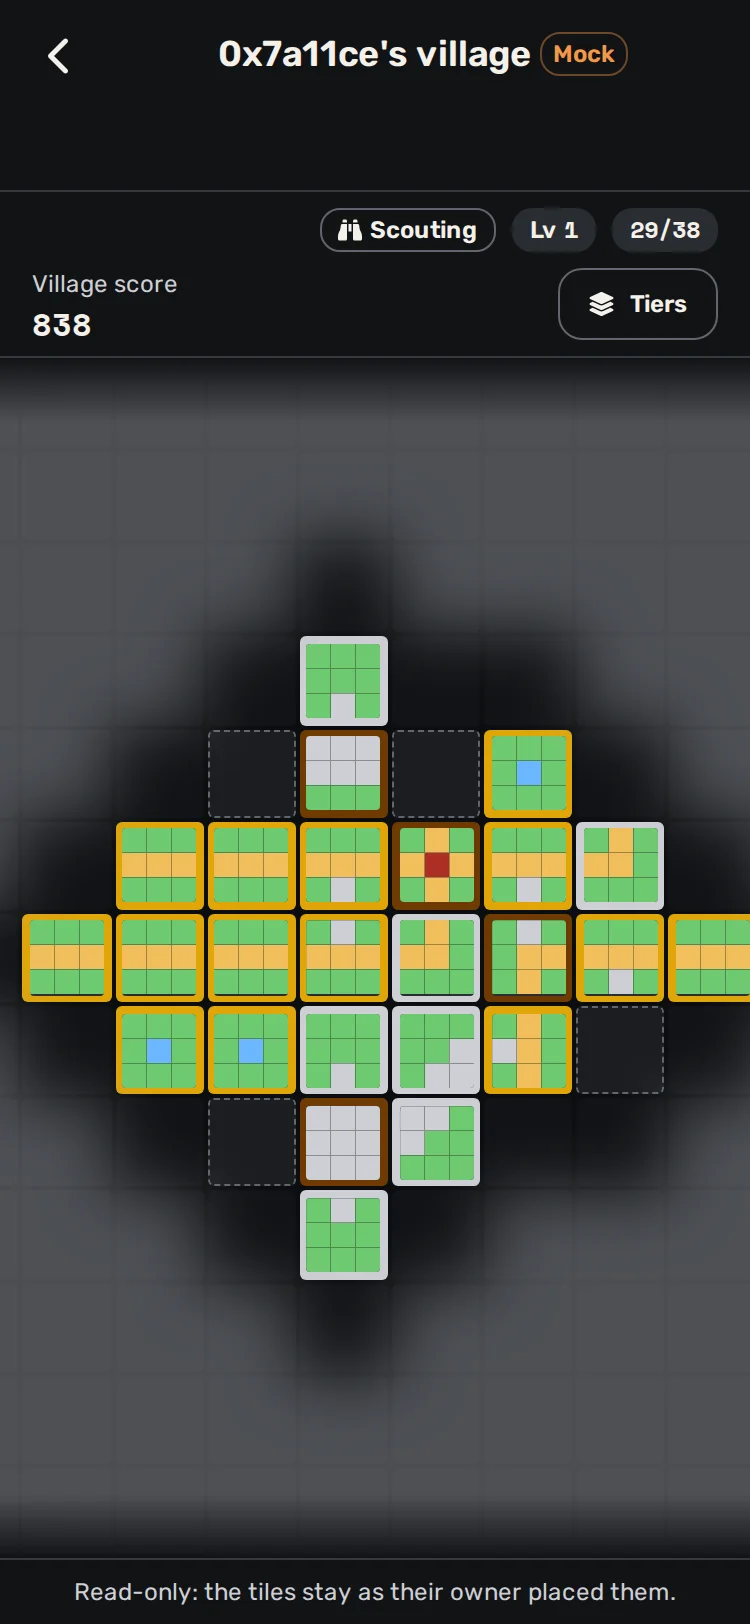
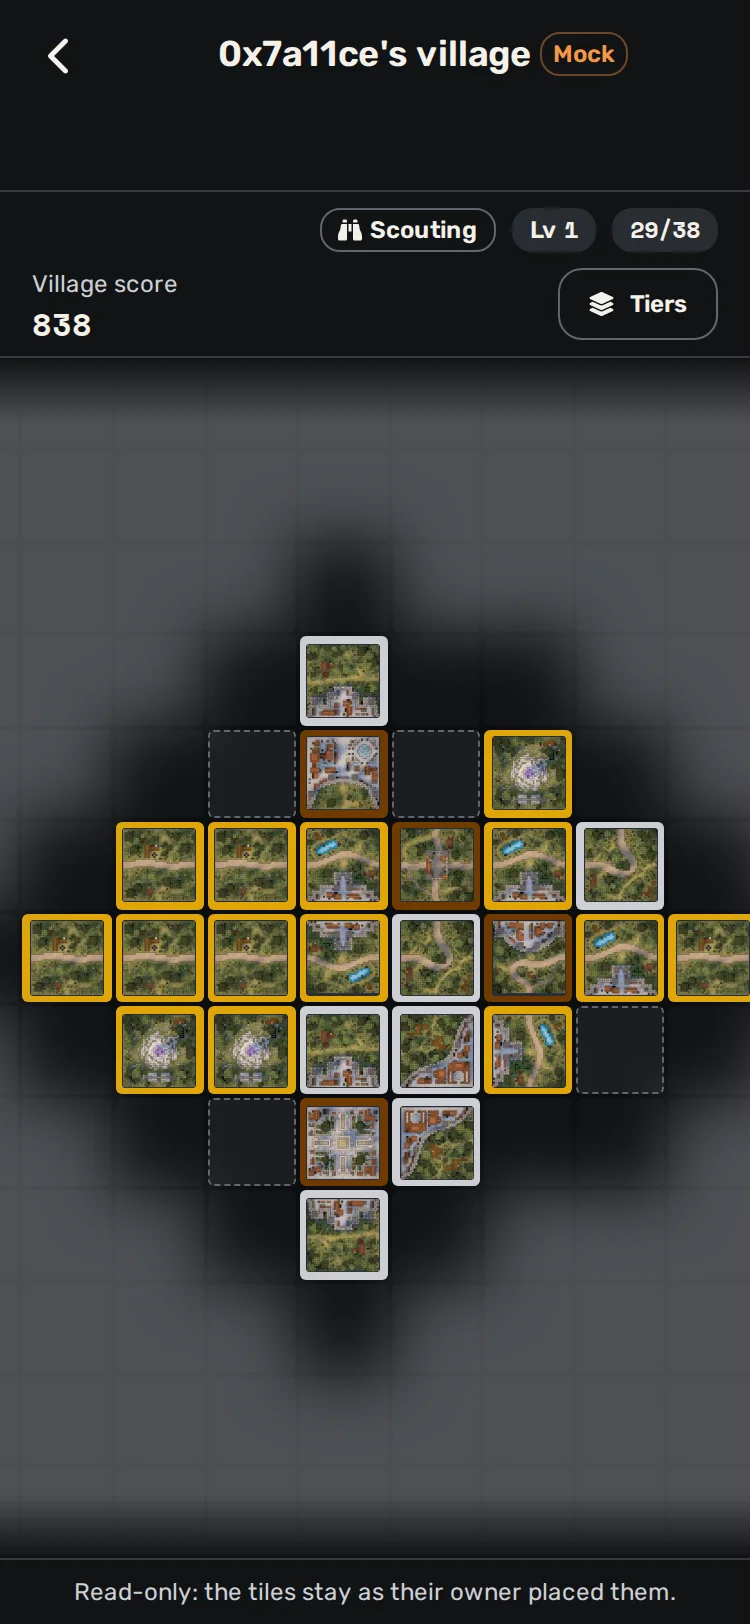
VILLAGE-SCREEN-2: the village's tiles in their owner's active skins (#646)
Review fix: the plan board draws each tile with its top-down render in the
theme its owner made active (useBoardSkins, as the boards; another player's
only when this device shows other players' skins), on its tier's base, as
the deck sheet's real view does (deckArt). A route test checks the owner's
Forest render and a visit's base one. Pages/Village gives its player Forest
and serves the page's manifest read; the captures are retaken.

Changed region(s): [[0.0307, 0.3695, 1.0, 0.8005]]

diff --git a/packages/app/src/stories/mocked/village-page.stories.tsx b/packages/app/src/stories/mocked/village-page.stories.tsx
@@ -12,6 +12,7 @@ import type { DataSources, GameSigner } from "../../data/sources";
 import { MOCK_KEY, MOCK_STARTING_PAVED, MockLedger } from "../../data/mock/ledger";
 import { mockGameViews, mockSigner } from "../../data/mock/overlay";
 import { STARTER } from "../../data/village";
+import { APP_MANIFEST } from "../../mocks/assets";
 import { PLAYER_ID } from "../../mocks/players";
 import { PLAN, grow, square } from "../../mocks/village";
 import Page from "../../routes/pages/village";
@@ -29,6 +30,17 @@ type Story = StoryObj<typeof meta>;
 
 const RIVAL = "0x7a11ce";
 
+/**
+ * The page's tile art reads `renderer-assets/manifest.json` (`manifestBody`), which Storybook does not serve (the preview hands
+ * the renderer `APP_MANIFEST` in memory): this page's read gets the same manifest, so its tiles show their renders in the
+ * owner's skins. Every other request goes through as it was.
+ */
+const served = globalThis.fetch.bind(globalThis);
+globalThis.fetch = (input, init) =>
+  String(input instanceof Request ? input.url : input).endsWith("renderer-assets/manifest.json")
+    ? Promise.resolve(new Response(JSON.stringify(APP_MANIFEST), { headers: { "content-type": "application/json" } }))
+    : served(input, init);
+
 /** A village grown by the rules from the starter: each plan on its first legal cell, nearest the centre. */
 function grown(cells: readonly Cell[], plans: readonly number[]) {
   const tiles: { id: number; plan: number; orientation: number; x: number; y: number }[] = [{ ...STARTER }];
@@ -43,7 +55,7 @@ const P = PLAN;
 const MIXED = [P.road, P.roadCross, P.roadBend, P.cityEdge, P.wonder, P.forestCity, P.road, P.stopRoads, P.roadCity, P.cityForest, P.city, P.road, P.wonder, P.roadBend, P.cityEdge, P.road, P.roadBend, P.road];
 
 /** A player's stored state in the ledger's format: a village of `extra` parcels and `plans` placed, the rewards given. */
-function player(extra: number, plans: readonly number[], rewards: { pending: number; offer: [number, number, number] | null }, cobbles: number) {
+function player(extra: number, plans: readonly number[], rewards: { pending: number; offer: [number, number, number] | null }, cobbles: number, theme = 0) {
   const cells = grow(square(1), extra);
   const tiles = grown(cells, plans);
   const copies = new Array<number>(SKIN_PLANS).fill(0);
@@ -55,8 +67,9 @@ function player(extra: number, plans: readonly number[], rewards: { pending: num
     achievementsClaimed: "0",
     days: {},
     weeks: {},
-    owned: {},
-    active: new Array<number>(SKIN_PLANS).fill(0),
+    // Every Forest skin owned and active when `theme` is 1: the board draws the tiles in it.
+    owned: theme ? { [theme]: 0xffffe } : {},
+    active: new Array<number>(SKIN_PLANS).fill(theme),
     shares: "0",
     paved: MOCK_STARTING_PAVED.toString(),
     usdc: "0",
@@ -67,7 +80,7 @@ function player(extra: number, plans: readonly number[], rewards: { pending: num
 
 function seeded(offer: [number, number, number] | null) {
   const players = {
-    [`0x${BigInt(PLAYER_ID).toString(16)}`]: player(4, MIXED.slice(0, 9), { pending: offer ? 1 : 2, offer }, 85),
+    [`0x${BigInt(PLAYER_ID).toString(16)}`]: player(4, MIXED.slice(0, 9), { pending: offer ? 1 : 2, offer }, 85, 1),
     [RIVAL]: player(20, [...MIXED, ...MIXED].slice(0, 26), { pending: 0, offer: null }, 0),
   };
   const data = new Map([[MOCK_KEY, JSON.stringify({ version: 1, players, vault: { assets: "0", supply: "0" }, transactions: 0 })]]);
@@ -111,7 +124,7 @@ function VillagePage({ offer = null }: { offer?: [number, number, number] | null
   );
 }
 
-/** The player's village: 13 cells, 9 tiles on their tier's base, the score from the engine, 85 Cobbles; two rewards wait (Open). */
+/** The player's village: 13 cells, 9 tiles in their Forest skins on their tier's base, the score from the engine, 85 Cobbles; two rewards wait (Open). */
 export const Board: Story = { parameters: { route: "/village" }, render: () => <VillagePage /> };
 /** A reward opened: its three tiles under the board; drag or tap one onto a lit cell, onto a ringed tile, or take 5 Cobbles. */
 export const Reward: Story = { parameters: { route: "/village" }, render: () => <VillagePage offer={[P.road, P.wonder, P.roadCross]} /> };

diff --git a/packages/app/__tests__/village-route.test.tsx b/packages/app/__tests__/village-route.test.tsx
@@ -1,12 +1,14 @@
 import { render, screen, waitFor, within } from "@testing-library/react";
 import userEvent from "@testing-library/user-event";
-import { afterEach, beforeEach, describe, expect, it } from "vitest";
+import { afterEach, beforeEach, describe, expect, it, vi } from "vitest";
 import { ViewError } from "@paved/chain";
 import { startTerritory } from "@paved/game-core";
 import { App } from "../src/App";
 import type { GameSigner } from "../src/data";
 import { STARTER } from "../src/data/village";
 import { queryClient } from "../src/lib/query-client";
+import { resetManifestBodies } from "../src/data/renderer-manifest";
+import { resetTileRenders } from "../src/data/tile-renders";
 import { PLAYER_ID } from "../src/mocks/players";
 import { createTestRouter } from "../src/routes/router";
 import { markWelcomed, resetWelcomedForTests } from "../src/routes/welcomed";
@@ -147,6 +149,37 @@ describe("/village: the own village", () => {
     await userEvent.click(screen.getByRole("button", { name: "Retry" }));
     expect(await screen.findByText(waiting(2), {}, { timeout: 5000 })).toBeInTheDocument();
     expect(screen.queryByText("Your rewards could not be read")).toBeNull();
+  });
+
+  it("draws each tile in its owner's active skin, on its tier's base; a visit too", async () => {
+    // The manifest: the starter's (RFFFRFCFR) top-down render in the base models (0) and in Forest (1).
+    resetTileRenders();
+    resetManifestBodies();
+    const manifest = { models: {}, renders: { "0": { "rfffrfcfr-top": "renders/rfffrfcfr-top.0.base.webp" }, "1": { "rfffrfcfr-top": "renders/rfffrfcfr-top.1.forest.webp" } }, themes: {} };
+    vi.stubGlobal("fetch", (url: string) => Promise.resolve(String(url).endsWith("manifest.json") ? new Response(JSON.stringify(manifest)) : new Response("", { status: 404 })));
+    try {
+      const c = chain(50, 0);
+      await c.writer.foundVillage();
+      c.views.skinPlayer(PLAYER_ID).active.fill(1);
+      const v = c.views.villagePlayer(RIVAL);
+      v.cells = startTerritory();
+      v.tiles = [{ ...STARTER }];
+      v.info = { gameId: 7, cells: 9, tiles: 0, score: 0, nextParcel: 1, nextPrice: 10, nextLevel: 1 };
+      const first = open(c, "/village");
+      const board = await screen.findByLabelText(/^Village of 9 cells/, {}, { timeout: 5000 });
+      await waitFor(() => expect(board.querySelector('img[src$="rfffrfcfr-top.1.forest.webp"]')).not.toBeNull());
+      first.unmount();
+      // Another player's village, in their skins: the rival has none active, so the base models.
+      queryClient.clear();
+      open(c, `/village/${RIVAL}`);
+      const visited = await screen.findByLabelText(/^Village of 9 cells/, {}, { timeout: 5000 });
+      await waitFor(() => expect(visited.querySelector('img[src$="rfffrfcfr-top.0.base.webp"]')).not.toBeNull());
+      expect(visited.querySelector('img[src$="forest.webp"]')).toBeNull();
+    } finally {
+      vi.unstubAllGlobals();
+      resetTileRenders();
+      resetManifestBodies();
+    }
   });
 
   it("draws each placed tile on its tier's base", async () => {

diff --git a/packages/app/src/routes/pages/village.tsx b/packages/app/src/routes/pages/village.tsx
@@ -1,14 +1,17 @@
 import { useParams, useSearchParams } from "react-router";
 import { useQueryClient } from "@tanstack/react-query";
 import { toast } from "sonner";
+import { deckArt } from "../../components/containers/deck-sheet";
 import { shortAddress } from "../../components/elements/short-address";
 import { VillageScene, type VillageStatus } from "../../components/scenes/village-scene";
+import { useBoardSkins } from "../../data/board-skins";
 import { cobbleKeys, useCobbleAccount } from "../../data/cobbles";
 import { usePlayerStatus } from "../../data/indexer";
 import { addressKey } from "../../data/keys";
 import { RENDERER_ASSETS } from "../../data/renderer-manifest";
 import { useDataSources } from "../../data/sources";
 import { useTileArt } from "../../data/tile-art";
+import { useTileRenders } from "../../data/tile-renders";
 import { useVillage, useVillageReward, useVillageWrites, villageKeys } from "../../data/village";
 import { useAccount } from "../../wallet/wallet";
 import { errorDetail } from "../error-detail";
@@ -24,7 +27,8 @@ const ADDRESS = /^0x[0-9a-f]{1,64}$/i;
  * (`useVillage`), the reward from `Rewards` (`useVillageReward`), the Cobbles from the ledger. The own village writes through
  * the signer (`useVillageWrites`): Found, Buy a parcel at the price the sheet showed, Open a reward, then place one of its
  * tiles, add it as a copy, or take the Cobbles; each write shows its wait, its refusal and a toast on its receipt. The board is
- * the plan (`VillageBoard`): each placed tile on its tier's base, the fog over the cells beyond the parcels. The 3D village
+ * the plan (`VillageBoard`): each placed tile on its tier's base, in its owner's active skin, the fog over the cells beyond the
+ * parcels. The 3D village
  * (`VillageViewport`, #648) waits for the renderer to draw a tier's base under a tile.
  */
 export default function Page() {
@@ -50,7 +54,11 @@ function Village({ player }: { player: string | null }) {
   const reward = useVillageReward(own ? playerId : null);
   const account = useCobbleAccount(own ? playerId : null);
   const writes = useVillageWrites(own ? playerId : null);
-  const tileArt = useTileArt(RENDERER_ASSETS);
+  // Each tile in the theme its owner made active (`active_skins`, as the boards draw them; another's only when this device
+  // shows other players' skins): its top-down render, else the base art.
+  const skins = useBoardSkins(playerId);
+  const renders = useTileRenders(RENDERER_ASSETS);
+  const tileArt = deckArt(renders, skins, useTileArt(RENDERER_ASSETS));
 
   const status: VillageStatus | null =
     own && me === null

diff --git a/packages/app/scripts/village-captures.ts b/packages/app/scripts/village-captures.ts
@@ -59,6 +59,7 @@ try {
       // The page read the ledger (the first visit waits for Storybook's compile): its score is shown.
       await page.waitForSelector("#storybook-root :text('Village score')", { timeout: 90_000 });
       // The tiles' art loads (Storybook's own socket keeps the network busy: no idle to wait for).
+      await page.waitForFunction(() => [...document.querySelectorAll("#storybook-root img")].every((img) => (img as HTMLImageElement).complete), null, { timeout: 60_000 });
       await page.waitForTimeout(4_000);
       const png = await page.screenshot({ fullPage: false, timeout: 180_000 });
       await page.close();
